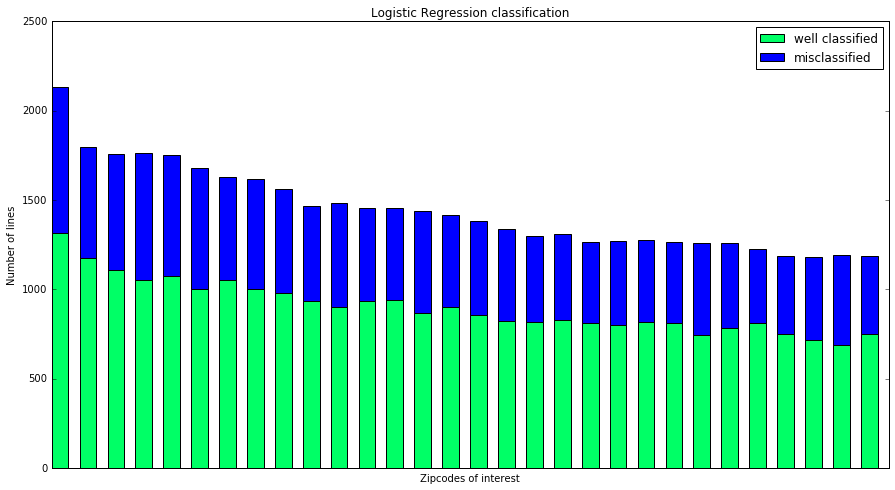
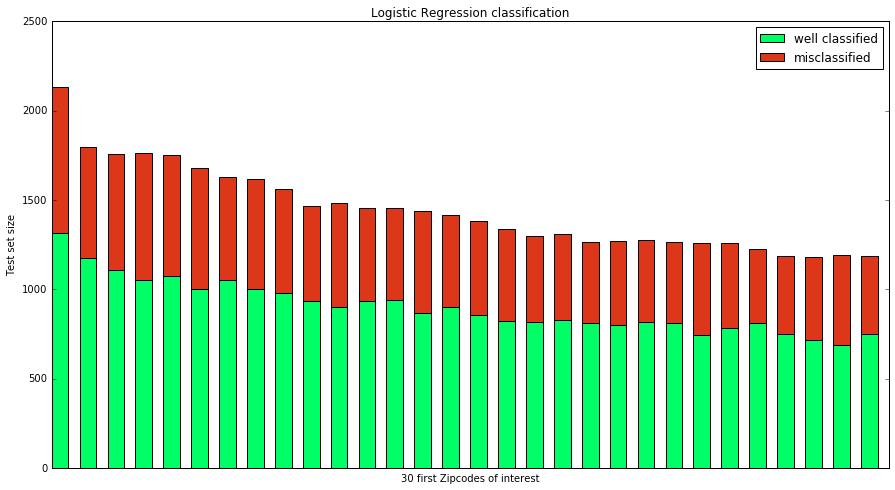
svm image + index update + notebook

diff --git a/index.html b/index.html
@@ -94,7 +94,7 @@
 							<h3>Support Vector Machine</h3>
 
 							<p>We tried to improve our prediction applying support vector machine classification. Though, the results were not better, with still an accuracy around 63 %. We also implemented a lot of other methods such as Adaboost.M1 classifier applied to decision trees (as weak classifier). We also tried K-Nearest Neighbors, Random Forest, as well as some discriminant analysis. Though, SVM were still the best option, despite a very long computation time. Hereafter, our predictions on the 30 most populated zipcodes.</p>
-						<span class="image featured"><img src="images/logregviz.png" alt="" /></span>
+						<span class="image featured"><img src="images/svmviz.png" alt="" /></span>
 						</section>
 
 					</div>
